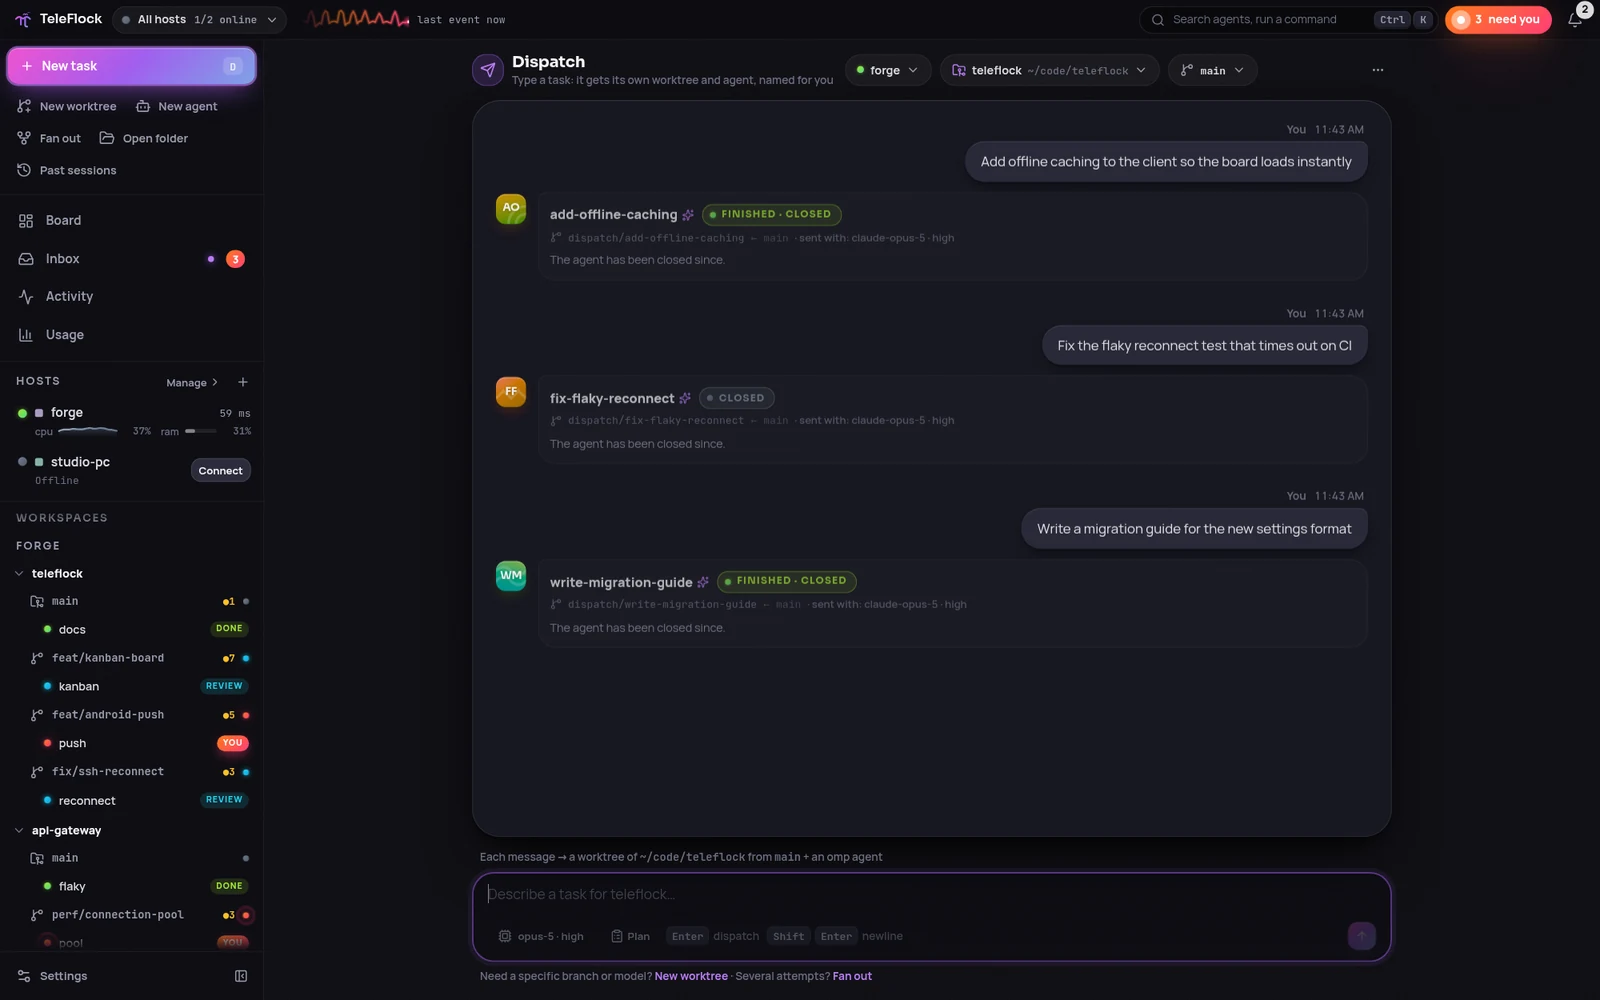
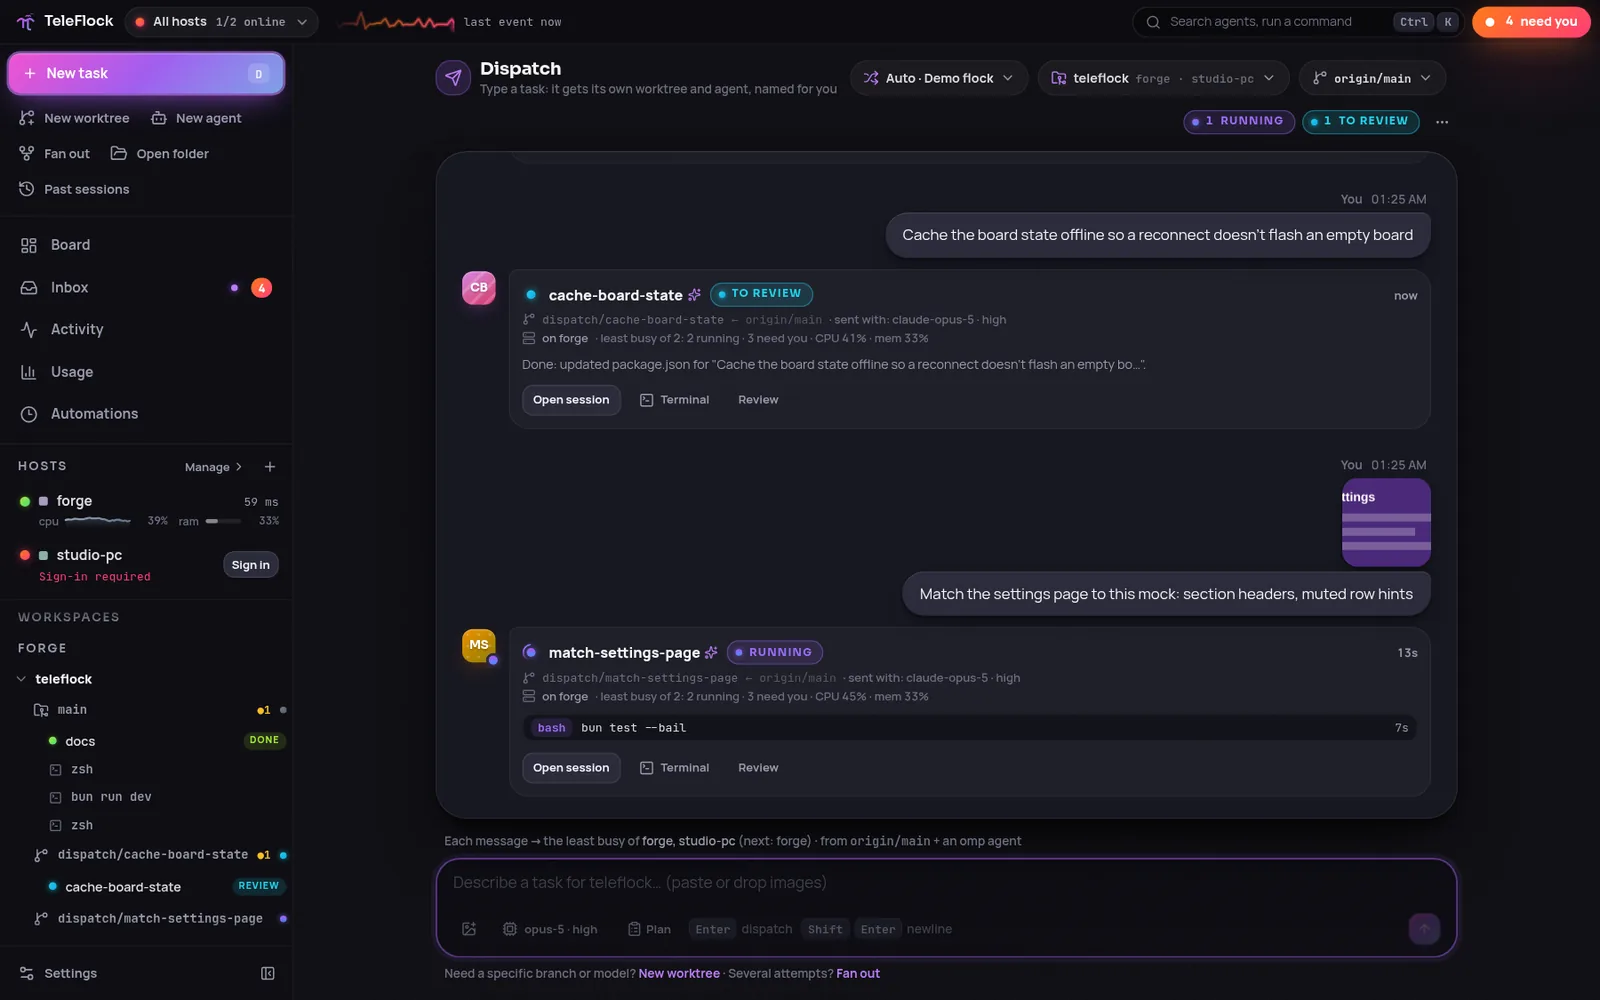
README, architecture routes/ownership, motion copy and screenshots for 0.5.0

diff --git a/src/features/settings/parts.tsx b/src/features/settings/parts.tsx
@@ -8,8 +8,8 @@ export const THINKING: readonly ThinkingLevel[] = ["off", "minimal", "low", "med
 
 /** The three motion budgets, as Settings and the palette name them (stored values unchanged). */
 export const MOTION_COPY: Record<MotionPref, { label: string; description: string }> = {
-  system: { label: "Calm", description: "Only changes and what needs you move." },
-  full: { label: "Lively", description: "Every running agent breathes and glows." },
+  system: { label: "Calm", description: "Changes and what needs you move briefly, then the screen holds still. Lightest on battery and GPU." },
+  full: { label: "Lively", description: "Every running agent breathes and glows, and the background drifts." },
   reduced: { label: "Reduced", description: "No motion; meaning stays as colour and text." },
 };
 

diff --git a/README.md b/README.md
@@ -41,17 +41,23 @@ TeleFlock is a native desktop and phone app for the [omp](https://github.com/can
 
 ### The board: is everything alive?
 
-Four lanes, **Needs you · Running · Review · Done**, with every omp agent on every host. Needs you comes first, and its oldest question sits on top, answerable right on the card. Every card has the same layout in every lane: the state and its time on top (`turn 27:24`, `waiting 6:13`, `finished 25m ago`), then who and where, the task, what it is doing right now, and labelled meters (`ctx 61%`, `subs 59%`, `+188 −74 · 3 files`, model, thinking). Running cards keep a live heartbeat with the streaming line, tool timers and tokens per second, and agents that go quiet while working are called out. Above the lanes sit today's spend with the subscription limit you will hit first, every host's health and a live terminal tile. Mark a reviewed card done (with Undo), drag it back to reopen, multi-select, filter, and drive everything from the keyboard (`J`/`K`, `Enter`, `A` answer, `T` terminal).
+Four lanes, **Needs you · Running · Review · Done**, with every omp agent on every host. Needs you comes first, and its oldest question sits on top, answerable right on the card. Every card has the same layout in every lane: the state and its time on top (`turn 27:24`, `waiting 6:13`, `finished 25m ago`), then who and where, the task, what it is doing right now, and labelled meters (`ctx 61%`, `subs 59%`, `+188 −74 · 3 files`, model, thinking). Running cards keep a live heartbeat with the streaming line, tool timers and tokens per second, and agents that go quiet while working are called out. Above the lanes sit today's spend with the subscription limit you will hit first, every host's health and a live terminal tile. Mark a reviewed card done (with Undo) and its herdr pane closes, worktree workspace included; the card stays in Done with its transcript, and **Resume**, opening its terminal or simply sending it a message picks the session back up with `omp --resume`. Drag a card back to reopen it, multi-select, filter, and drive everything from the keyboard (`J`/`K`, `Enter`, `A` answer, `T` terminal). When omp's cleanup (or you) deletes an agent's session file, the agent disappears from the board, the inbox and Dispatch.
 
 <img src="docs/assets/readme/board.webp" alt="Board with Needs you, Running, Review and Done lanes" width="100%">
 
 ### Easy to start, nothing hidden
 
-New to omp and herdr? The board's **First steps** checklist walks you through the demo flock (answer a question, approve a command, steer an agent, review, dispatch, the palette) and retires itself. Dotted terms such as *pane*, *steer*, *follow-up*, *worktree* or *compact* explain themselves on hover or tap, short hints beside the composer and the phone pager retire after a few sightings, and every launcher and palette action says what it does. Each fact is shown once, in one place, with its unit. Motion is calm by default: only changes and what needs you move, and Settings → Motion → Lively brings back the full show.
+New to omp and herdr? The board's **First steps** checklist walks you through the demo flock (answer a question, approve a command, steer an agent, review, dispatch, the palette) and retires itself. Dotted terms such as *pane*, *steer*, *follow-up*, *worktree* or *compact* explain themselves on hover or tap, short hints beside the composer and the phone pager retire after a few sightings, and every launcher and palette action says what it does. Each fact is shown once, in one place, with its unit. Motion is calm by default: only changes and what needs you move, briefly, then the screen holds still; nothing animates while the window is in the background, and Settings → Motion → Lively brings back the full show.
 
 ### AI naming with omp's tiny model
 
 TeleFlock uses the **tiny model role** you set up in omp (`modelRoles.tiny`, falling back to `smol`) as its AI provider, on the host and through your own omp login. It names Dispatch worktrees and branches, wizard branches and agents, fan-out runs and templates, suggests a name when you rename a session or workspace, and drafts commit messages and pull request titles and descriptions in Review. AI-made names carry a ✨, are always editable, and fall back to names made from your own text when the model is slow or switched off (Settings → AI naming). Nothing is stored: the text goes only to your own model provider, through omp.
+
+### Every omp setting, in the app
+
+Everything you can configure in omp is on the **omp settings** page (`Ctrl+8`, a host card's ⋯ menu, or Settings → New agents), per host: all of omp's settings under omp's own tabs, groups, labels and descriptions, with search, the right control for each (switches, choices with their explanations, numbers with omp's presets, lists, JSON), a modified dot and reset to default. The **model roles** editor at the top of the Model tab assigns a model and thinking level to every role (default, smol, slow, plan, tiny, task, advisor, …) and to roles of your own. TeleFlock reads omp's own settings schema from the omp on the host and writes through `omp config`, so omp validates every change; secrets are write-only.
+
+<img src="docs/assets/readme/omp-settings.webp" alt="omp settings page with omp's tabs and the model roles editor" width="100%">
 
 ### A native session for every agent
 
@@ -63,9 +69,15 @@ A real GUI for the omp transcript: streaming markdown, rich tool cards (diffs, b
 
 ### Dispatch: fire tasks into fresh worktrees
 
-Pick a repository and send tasks like chat messages. omp's tiny model names each one (`dispatch/offline-board-cache`), and each gets its own worktree and omp agent; they all run side by side. A thread per repo shows every agent's progress live: naming, creating the worktree, starting, then the agent's status and streaming line. You can answer its questions inline and jump to its session, terminal or review. Templates, model, thinking and plan mode are set per message. Up to three worktrees are created at once; the rest queue. Need a specific branch or several attempts? New worktree and Fan out are one click away, with the repository filled in.
+Pick a repository and send tasks like chat messages. omp's tiny model names each one (`dispatch/offline-board-cache`), and each gets its own worktree and omp agent; they all run side by side. A thread per repo shows every agent's progress live: naming, creating the worktree, starting, then the agent's status and streaming line. You can answer its questions inline and jump to its session, terminal or review. Templates, model, thinking and plan mode are set per message, and you can paste, drop or attach images that go to the agent with its first message. Every worktree forks from a freshly fetched `origin/main`, not a local `main` that may be behind. Put hosts in a **group** (host editor) and pick **Auto · <group>**: each task goes to the least busy host of the group that has the repository (running agents, tasks on their way, CPU and memory; clones are matched by their `origin` URL), and its card says where it went and why. Up to three worktrees are created at once; the rest queue. Need a specific branch or several attempts? New worktree and Fan out are one click away, with the repository filled in.
 
-<img src="docs/assets/readme/dispatch.webp" alt="Dispatch thread with three tasks, each in its own worktree" width="100%">
+<img src="docs/assets/readme/dispatch.webp" alt="Dispatch in Auto mode: two tasks, one with an image, each sent to the least busy host of the group" width="100%">
+
+### Automations: agents on a schedule
+
+A host can start an omp agent on a schedule: a nightly dependency audit, a weekday standup summary, a weekly flaky-test triage. Each automation has a prompt, a model, thinking level and plan mode, and either a fresh worktree per run (forked from `origin/main`) or a folder it runs in. Schedules are cron expressions in the host's time zone; the editor has presets and reads the next runs back in plain English. A run whose previous agent is still busy is skipped instead of piling up, and a run missed while the host was off can catch up once. Every run lands in the history with a link to its agent, and your devices get a notification. `tf-hostd` runs the schedules itself, so no app needs to be connected; on Linux with systemd a timer brings it back after reboots and crashes while an automation is enabled.
+
+<img src="docs/assets/readme/automations.webp" alt="Automations page with three scheduled agents and their recent runs" width="100%">
 
 ### Subagents and agent chat
 
@@ -89,9 +101,9 @@ A diff viewer (unified or split) for any worktree. From there you commit (✨ le
 
 ### A real terminal when you need it
 
-xterm.js attached to any herdr pane, in **Fira Code** with **Nerd Font** icons. It supports control or observe mode with take-over, search, tabs, `localhost` preview tunnels, and an extra-keys row on phones. omp keeps running as its normal TUI inside herdr, so the terminal is always the real thing.
+xterm.js attached to any herdr pane, in **Fira Code** with **Nerd Font** icons. Beside it, **Running panes** lists every pane on the host, shells and agents, grouped by workspace and tab with the program running in each (`vim`, `bun run dev`, `htop`); the sidebar shows shells under their workspace and the palette finds them, and opening one attaches to the existing pane instead of starting a new shell. It supports control or observe mode with take-over, search, tabs, `localhost` preview tunnels, and an extra-keys row on phones. omp keeps running as its normal TUI inside herdr, so the terminal is always the real thing.
 
-<img src="docs/assets/readme/terminal.webp" alt="Terminal attached to an omp pane in herdr" width="100%">
+<img src="docs/assets/readme/terminal.webp" alt="Terminal attached to an omp pane in herdr, with the list of running panes beside it" width="100%">
 
 ### In your pocket
 
@@ -155,7 +167,7 @@ On the machine that runs herdr and omp:
    - Run `sudo tailscale set --ssh`.
    - Make sure your tailnet policy lets your devices SSH to this host as your user.
    - If the policy uses `check` mode, TeleFlock shows an **Open browser** card to finish the login.
-2. **herdr and omp** must be installed (`herdr --version`, `omp --version`; omp ≥ 18.12).
+2. **herdr and omp** must be installed (`herdr --version`, `omp --version`; omp ≥ 18.12). From then on the host keeps them current: `tf-hostd` checks for new releases every 6 hours and installs them (`omp update`, plain `herdr update`, never a live server handoff, so running agents keep running). The host card shows both versions with Check now / Update now and a switch to turn it off.
 3. **In TeleFlock:** **Add host** (first launch, or the **+** next to HOSTS in the sidebar) → Tailscale SSH (MagicDNS name or 100.x IP, user), Local, or WSL (pick a distro) → **Test** → **Add host**. The dialog lists what the host needs, and a failed test shows the command that fixes it. TeleFlock deploys `tf-hostd` to `~/.teleflock/` and connects.
 4. **Host setup** (on the Hosts page, which opens it by itself while items are open; the board shows a **Fix…** strip too) offers one-tap fixes, each explained by what goes wrong without it. Each runs only when you tick its consent box:
    - **herdr's omp integration** (`install-herdr-integration`): accurate working/blocked/idle states.
@@ -201,6 +213,8 @@ flowchart LR
 - A companion omp extension adds structured controls (model, thinking, tree, queue, …).
 - herdr is driven through its local API; git and `gh` run on the host for review and shipping.
 - AI naming runs `omp --mode json` once per request on the host with the `tiny` role (no tools, no session), reads the answer and stops the process.
+- `tf-hostd` also runs the host's automations and keeps omp and herdr up to date; on Linux with systemd a timer restarts it after a reboot while an automation is enabled.
+- omp settings come from omp's own schema (read once per omp build by a throwaway headless omp with the TeleFlock extension) and are written through `omp config set`.
 - The UI is React, rendered by the system webview through Tauri 2. Desktop and Android share all of it.
 
 Details: [`docs/architecture.md`](docs/architecture.md) · spec: [`docs/spec.md`](docs/spec.md) · feature coverage: [`docs/coverage.md`](docs/coverage.md) · bridge protocol: [`docs/bridge-protocol.md`](docs/bridge-protocol.md).
@@ -250,11 +264,12 @@ What has been verified, and how:
 - **Real omp + herdr, on Linux:** the full stack was exercised end to end through the UI in herdr lab sessions, via `tf-devserver` with the local transport, including subscription limits against real Claude and Codex accounts. AI naming (`ai.complete`) was run against omp 18.12.3's real `tiny` model role (an answer in about 4 s).
 - **0.4.0 interface:** the changed screens were walked in the demo at 1440×900, 1280×720 and on a Pixel 5 profile, and the whole change went through a code review.
 - **0.4.1 fixes:** each was reproduced first and re-checked after the fix: the collab join of resumed sessions against a live omp 18.12.3 room (joined in about 1 s instead of timing out every 30 s), queued steers, omp's own `/btw` with follow-ups, kept image originals and the observed terminal size in herdr lab sessions, the systemd scopes and the herdr move on a throwaway process tree, and the update schedule in unit tests plus a live run against GitHub. The Android lifecycle hook for updates was compiled only in the release build.
+- **0.5.0:** the Rust and frontend suites, plus lab runs against real omp 18.12.3 and herdr 0.9.0: Mark done closing the pane, the parked card, Resume, a prompt resuming a parked agent, a daemon restart and pruning after the session file was deleted; a Dispatch task whose image reached omp with its first prompt (the agent answered "Red") in a worktree forked from the fetched `origin/main` with no upstream; all 559 omp settings read from omp's schema and a set/reset round trip in a temporary agent dir; scheduled, catch-up and skipped automation runs and the systemd timer on a lab home; the omp/herdr updater against fake binaries; every pane of a lab herdr session listed with its program. Rendering was measured in headless Chromium and in WebKitGTK at 2× scale: on an idle board the GPU process went from 97% to 3% CPU and compositor layers from 75 to 17, and WebKitGTK's web process from 584% to 114%. The new screens were walked in the demo at 1440×900 and 412×892, and the whole change went through a code review.
 - **Packages:** the Windows installer, the signed APK and the Linux .deb, AppImage and Arch package build from this tree. The Linux app was smoke-run: the window renders, the tray starts, a second launch hands its `teleflock://` link to the first, and the .deb installs and runs on a clean Ubuntu 22.04.
 
 **Not yet exercised:**
 - on real Windows, Android or macOS hardware (macOS is built only in CI);
-- on a real Linux desktop session (tray rendering, the update password prompt);
+- on a real Linux desktop session (tray rendering, the update password prompt, a fractional-scale monitor) and real WebView2 GPU usage;
 - against a real remote Tailscale SSH peer (the SSH path is covered by an in-process server that imitates Tailscale);
 - WSL mode.
 

diff --git a/docs/architecture.md b/docs/architecture.md
@@ -511,8 +511,9 @@ It must exercise every UI state, including disconnected, stale and auth-required
 | FrontSession | `src/features/session/**` | Session view on desktop and mobile: virtualized transcript, streaming markdown with highlighting, tool cards, ask/approval/plan-review cards, composer (slash palette, @files, images, steer/follow-up queue), model/thinking/plan/goal/fast controls, inspector (context, cost, tps, todos, subagents, files, tree, actions), btw, non-omp terminal-first view, mobile agent pager |
 | FrontTerminal | `src/features/terminal/**` | xterm.js WebGL terminal (frames, input, resize, scroll), tabs, send-keys bar, mobile extra keys (sticky Ctrl/Alt), embeddable `<TerminalPane>` for split view and session |
 | FrontOps | `src/features/{worktree,workspace,review,preview,history}/**` | New worktree/agent wizard with remote folder browser, workspace ops, review and ship (git diff viewer, commit/push/PR/merge), preview tunnels, past sessions and resume |
-| Dispatch | `src/features/dispatch/**` | Dispatch screen: per-repo chat thread where each message creates a worktree + omp agent, with live reply cards |
+| Dispatch | `src/features/dispatch/**` | Dispatch screen: per-repo chat thread where each message creates a worktree + omp agent, with live reply cards; images; Auto mode over a host group |
 | OmpSettings | `src/features/ompSettings/**` | Per-host omp settings page: omp's tabs/groups/labels, search, per-type controls, model-roles editor, Other tab for keys omp's panel lacks (§3.10) |
+| Automations | `src/features/automations/**` | Per-host Automations page: list with next/last run, editor with schedule builder and live preview, run history, scheduler status (§3.11) |
 | FrontCore | `src/core/**` (except `gen/`) | §6.1 |
 
 Shared UI building blocks come from `@/design` only. A feature that needs a cross-cutting primitive asks FrontShell (for layout) or adds it in its own folder.
@@ -528,6 +529,7 @@ Routes (hash router, `src/app/router.ts`):
 - `#/hosts`
 - `#/settings`
 - `#/omp[/:hostId]` (omp settings of a host)
+- `#/automations[/:hostId]` (automations of a host)
 - `#/design`
 
 On mobile, the same routes render mobile layouts (`useIsMobile`).
